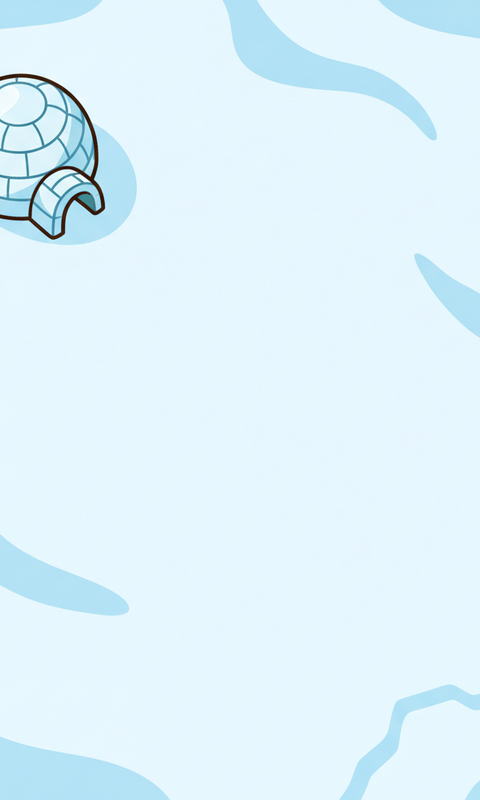
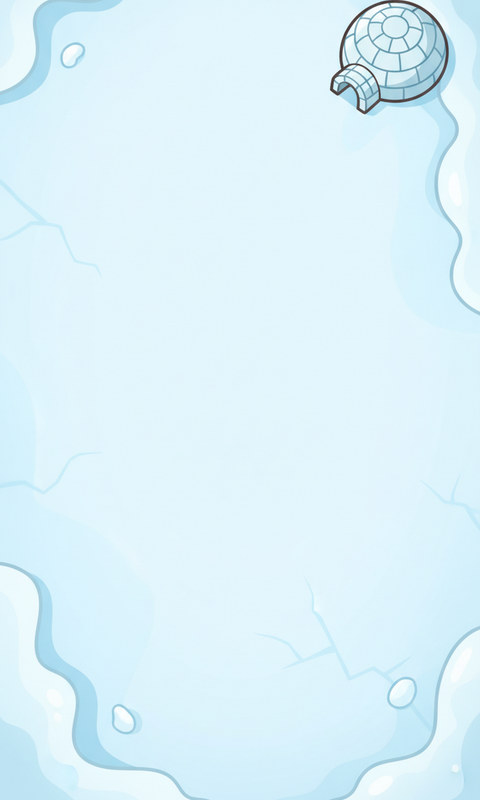
Defender: calmer Desert and Arctic arenas
The Desert's two big white rocks sat near the ring; it is now smooth sand with soft ripples and
a few plain cacti and pebbles at the edges (no faces, so nothing reads as a myth). The Arctic's
igloo moves to a small one far off in a corner, with drifts and ice cracks kept to the edges.
Prompts in tools/gen_art.py updated to match. Build 25, cache b25.

Claude-Session: https://claude.ai/code/session_01EFREJBX8jm5rRQPAyJTUcN

diff --git a/defender/index.html b/defender/index.html
@@ -354,7 +354,7 @@
     <div class="wallet"><span class="pill coins">🪙 <span class="coinsN">0</span></span><span class="pill gems">💎 <span class="gemsN">0</span></span><span class="pill tix">🎟 <span class="tixN">0</span></span></div>
     <h1 class="display"><small>Why, Dad?</small>Defender</h1>
     <p class="tag hand">No dodging. Only wondering.</p>
-    <div class="build">build 24</div>
+    <div class="build">build 25</div>
     <canvas id="titleParty" width="880" height="600"></canvas>
     <div class="side">
       <button class="btn big-icon ghost" id="openParty">🧑🤝🧑<small>Party</small></button>

diff --git a/defender/sw.js b/defender/sw.js
@@ -1,6 +1,6 @@
 // Why, Dad? Defender: offline first. Everything the game needs is cached on first visit,
 // so it opens with no signal. Bump CACHE when the build changes.
-const CACHE = 'whydad-defender-b24';
+const CACHE = 'whydad-defender-b25';
 const CORE = ['./', './index.html', './manifest.json',
   './assets/mascot_wave.png', './assets/mascot_pointing.png', './assets/mascot_amazed.png', './assets/mascot_talking.png', './assets/webster.png',
   './assets/icon-192.png', './assets/icon-512.png',

diff --git a/defender/tools/gen_art.py b/defender/tools/gen_art.py
@@ -42,8 +42,8 @@ ARENAS = [
     'a pond with lily pads and reeds in a ring around a small grassy island',
     'a library with wooden floorboards, a round red rug in the middle and bookshelves around the edge',
     'a sandy beach with gentle waves along the top edge, and a few small shells only in the corners',
-    'a desert with dune ripples, a few cacti and bleached rocks',
-    'pale blue-white snowy arctic ground with soft blue shadows, ice cracks, snow drifts and a small igloo',
+    'a desert of smooth pale sand with soft dune ripples, and only a few small plain green cacti (ordinary plants with no eyes, no mouth and no face) and pebbles right at the edges of the picture',
+    'pale blue-white snowy arctic ground with soft blue shadows, faint ice cracks and low snow drifts along the edges, and only a tiny igloo far off in one top corner',
     'a jungle floor crowded with big leaves and vines around the edge',
     'a night-time lawn under a starry sky, dark blue-green grass with a soft silvery glow in the middle as if lit by moonlight from off the picture (the moon itself is not in the picture), a few tiny stars and fireflies, and only a tiny folded picnic blanket tucked into one bottom corner',
 ]
